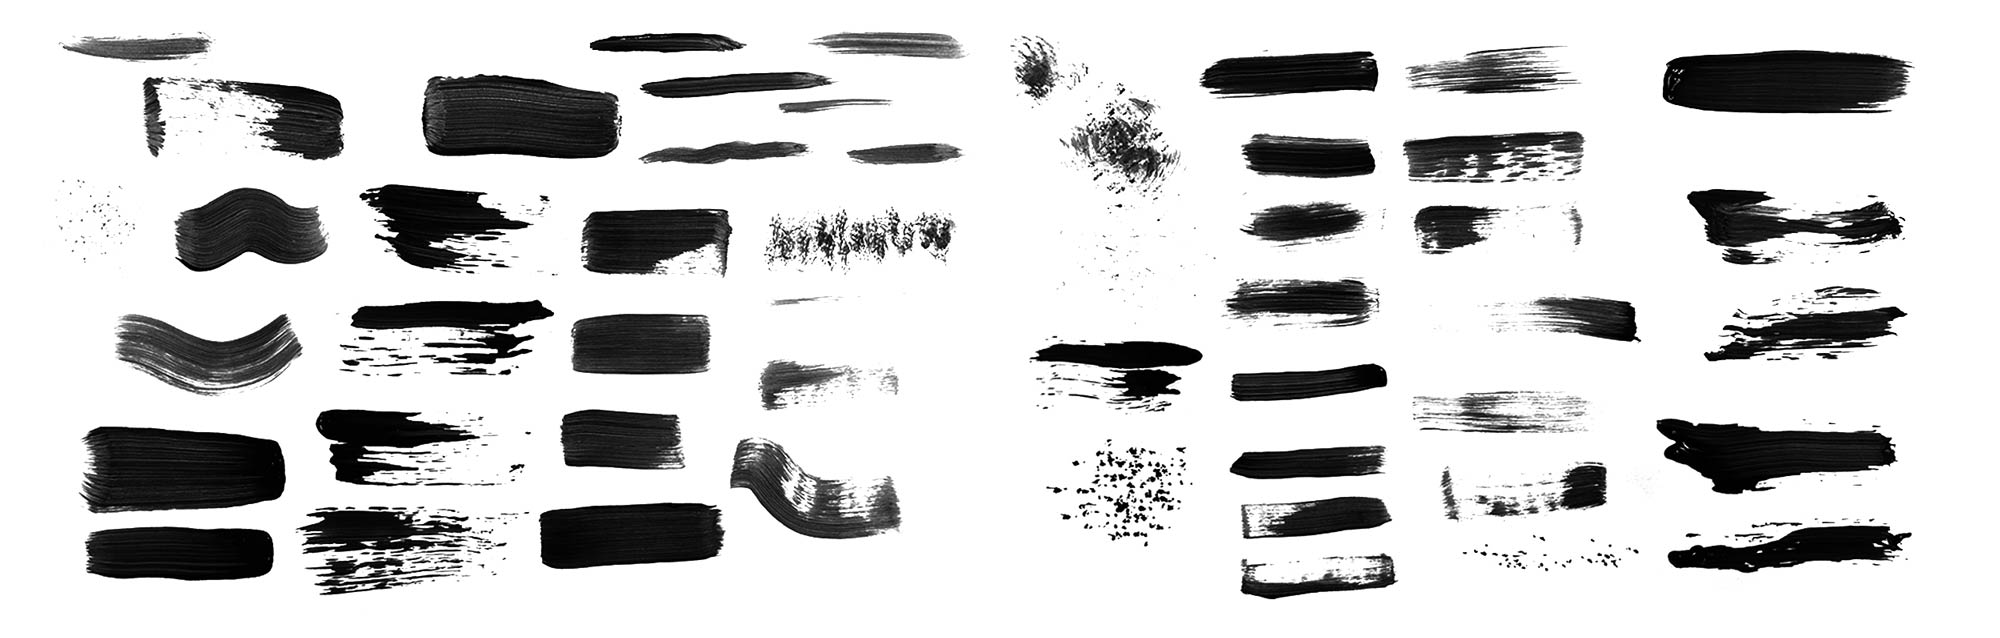
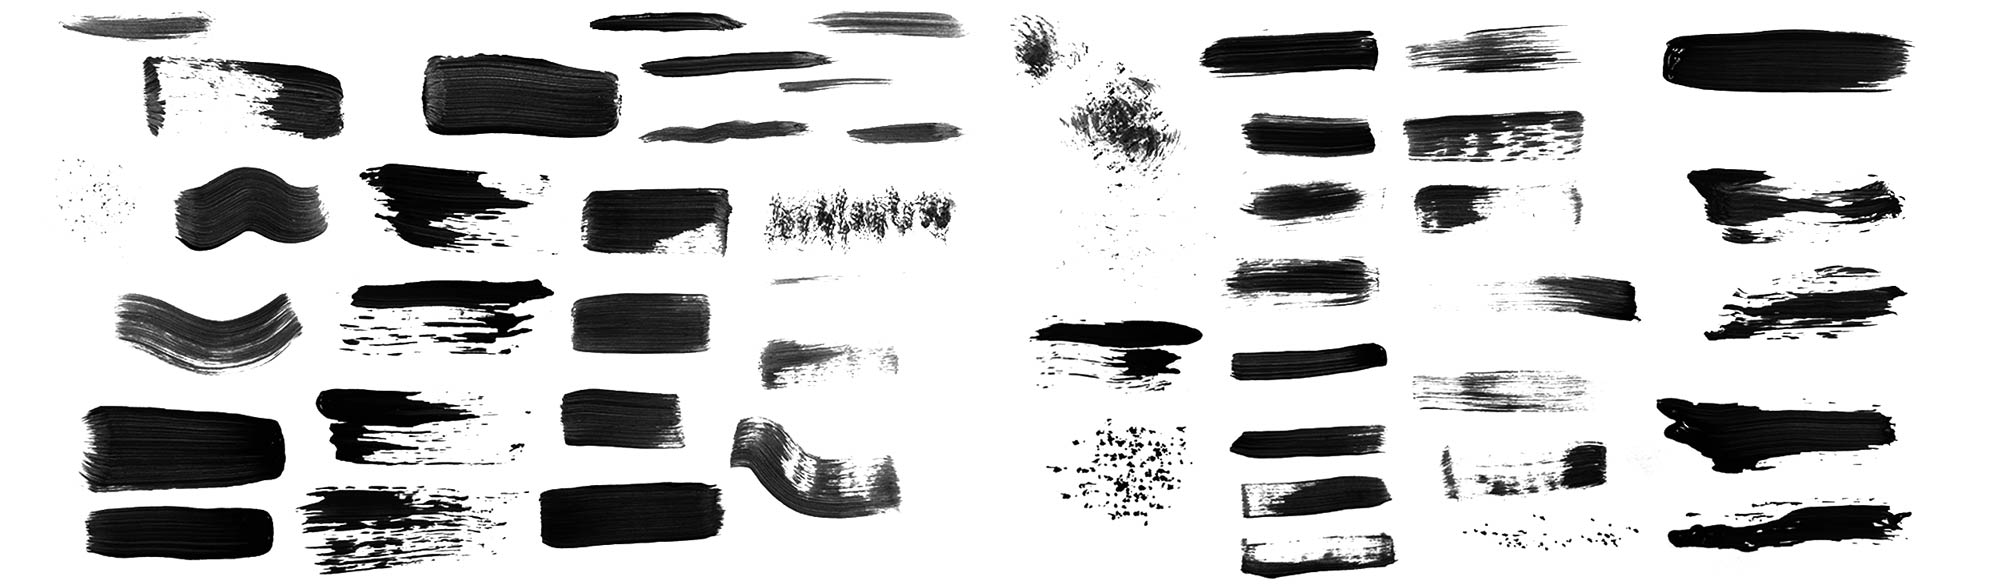
Add the content to the vector page

diff --git a/vector-illustration.html b/vector-illustration.html
@@ -27,8 +27,11 @@ sitename: Megan Smith's Portfolio
       <p class="milli grey-text">For my vector painting I chose to do Kid Cudi. I’m a big fan of Kid Cudi and his music so I had wanted to do a portrait of him for a while and this was the perfect opportunity for me to do so. The colours used in the illustration represent not only the bright and colourful aura of him and his music, but they're also some of the main colours that are used on his latest album Kids See Ghosts. </p>
       <p class="milli grey-text">The first step of this project was to paint out strokes on paper and then vectorize them in Illustrator.</p>
       <h2 class="kilo">Process</h2>
-      <img class="img-flex push" src="/images/vector-illustration/.jpg" alt="">
+      <img class="img-flex push-1-4" src="/images/vector-illustration/brushes.jpg" alt="">
+      <p class="micro push grey-text">These are the original paint strokes that were painted on paper.</p>
       <h2 class="kilo">Final</h2>
+      <img class="img-flex push-1-4" src="/images/vector-illustration/items.jpg" alt="">
+      <p class="micro push grey-text">This illustration can be used as more than just a poster design.</p>
       <h2 class="kilo push-0">Challenges</h2>
       <p class="milli push-0 grey-text">I had to restart this illustration 2 times before the completed version. The first two times I didn’t get the right details in the anatomy of the face and it didn’t really look like Kid Cudi. I also submitted this project without any of the text, so it was really plain. Considering there was so much detail in the painting, I had to find a way to make the background match.</p>
       <ul class="list-group-inline text-center milli push-0 pad-t">
